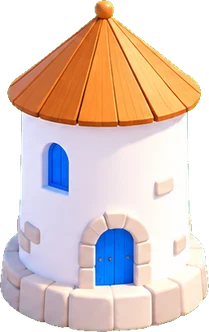
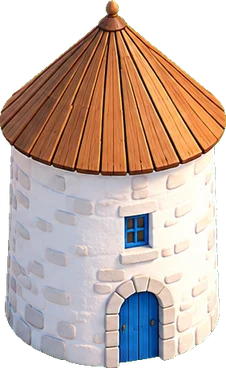
希臘風車換新圖（第四、五級得軸心），扇葉另外放上去一直轉
Claude-Session: https://claude.ai/code/session_01E2utfFQBUZUAHLnSXfgdjb

diff --git a/components/city-scene.ts b/components/city-scene.ts
@@ -173,8 +173,25 @@ export function createCityScene(
       g.add(glow);
       lamps.push(glow);
     }
+    if (art.spin?.name === name && level >= 4) {
+      const [su, sv, sd] = art.spin.at[level - 4];
+      let bt = artTex.get(art.spin.url);
+      if (!bt) {
+        bt = new T.TextureLoader().load(art.spin.url);
+        bt.encoding = T.sRGBEncoding;
+        artTex.set(art.spin.url, bt);
+      }
+      const sails = new T.Sprite(new T.SpriteMaterial({ map: bt, transparent: true, alphaTest: 0.2 }));
+      sails.renderOrder = 1;
+      sails.position.set((su - 0.5) * w * ART_UNIT, (1 - sv - 0.04) * h * ART_UNIT, 0.05);
+      sails.scale.setScalar(sd * k * ART_UNIT);
+      sails.userData.spin = true;
+      g.add(sails);
+      spinners.push(sails);
+    }
     return g;
   }
+  const spinners: any[] = [];
   const lampTex = soft("rgba(255,255,255,1)", "rgba(255,255,255,0)");
   const lamps: any[] = [];
 
@@ -508,6 +525,7 @@ export function createCityScene(
       p.body.traverse((o: any) => {
         o.geometry?.dispose();
         if (o.userData.lamp) lamps.splice(lamps.indexOf(o), 1);
+        if (o.userData.spin) spinners.splice(spinners.indexOf(o), 1);
       });
     }
     p.body = building(level, i);
@@ -670,6 +688,7 @@ export function createCityScene(
     const dt = Math.min(0.05, (now - last) / 1000);
     backdrop.update(now, dt);
     for (const l of lamps) l.scale.setScalar(0.55 + Math.sin(now / 350) * 0.12);
+    if (!reduceMotion) for (const sp of spinners) sp.material.rotation -= dt * 1.1;
     last = now;
     const bob = reduceMotion ? 0 : Math.sin(now / 1400) * 0.12;
     island.position.y = bob;

diff --git a/lib/themes.ts b/lib/themes.ts
@@ -15,6 +15,8 @@ export type ThemeArt = {
   sizes: Readonly<Record<string, readonly (readonly [number, number])[]>>;
   /** Where the lighthouse lamp is on its level 4 and 5 pictures (0…1 across, down), if it has one. */
   lamp?: { name: string; at: readonly (readonly [number, number])[] };
+  /** Turning sails on one building's level 4 and 5 pictures: [across, down, width in picture pixels]. */
+  spin?: { name: string; url: string; at: readonly (readonly [number, number, number])[] };
 };
 
 export type Theme = {
@@ -48,12 +50,13 @@ export const GREECE: Theme = {
     names: ["house", "mill", "church", "tavern", "light"],
     sizes: {
       house: [[130, 139], [145, 149], [204, 243], [223, 265], [300, 441]],
-      mill: [[181, 114], [204, 244], [209, 332], [290, 423], [300, 479]],
+      mill: [[213, 166], [214, 274], [226, 368], [227, 370], [230, 560]],
       church: [[199, 155], [212, 213], [220, 273], [254, 308], [300, 401]],
       tavern: [[132, 130], [169, 182], [192, 213], [220, 266], [300, 377]],
       light: [[198, 172], [193, 231], [203, 334], [225, 425], [300, 500]],
     },
     lamp: { name: "light", at: [[0.49, 0.22], [0.54, 0.2]] },
+    spin: { name: "mill", url: "/art/city/greece/blades.webp", at: [[0.78, 0.49, 250], [0.783, 0.532, 250]] },
   },
 };
 export const THEMES: readonly Theme[] = [

diff --git a/public/sw.js b/public/sw.js
@@ -1,5 +1,5 @@
 // 大富翁 service worker: keeps the app shell and art so the board opens without a network.
-const CACHE = "dafuweng-v96";
+const CACHE = "dafuweng-v97";
 const SHELL = [
   "/",
   "/manifest.webmanifest",
